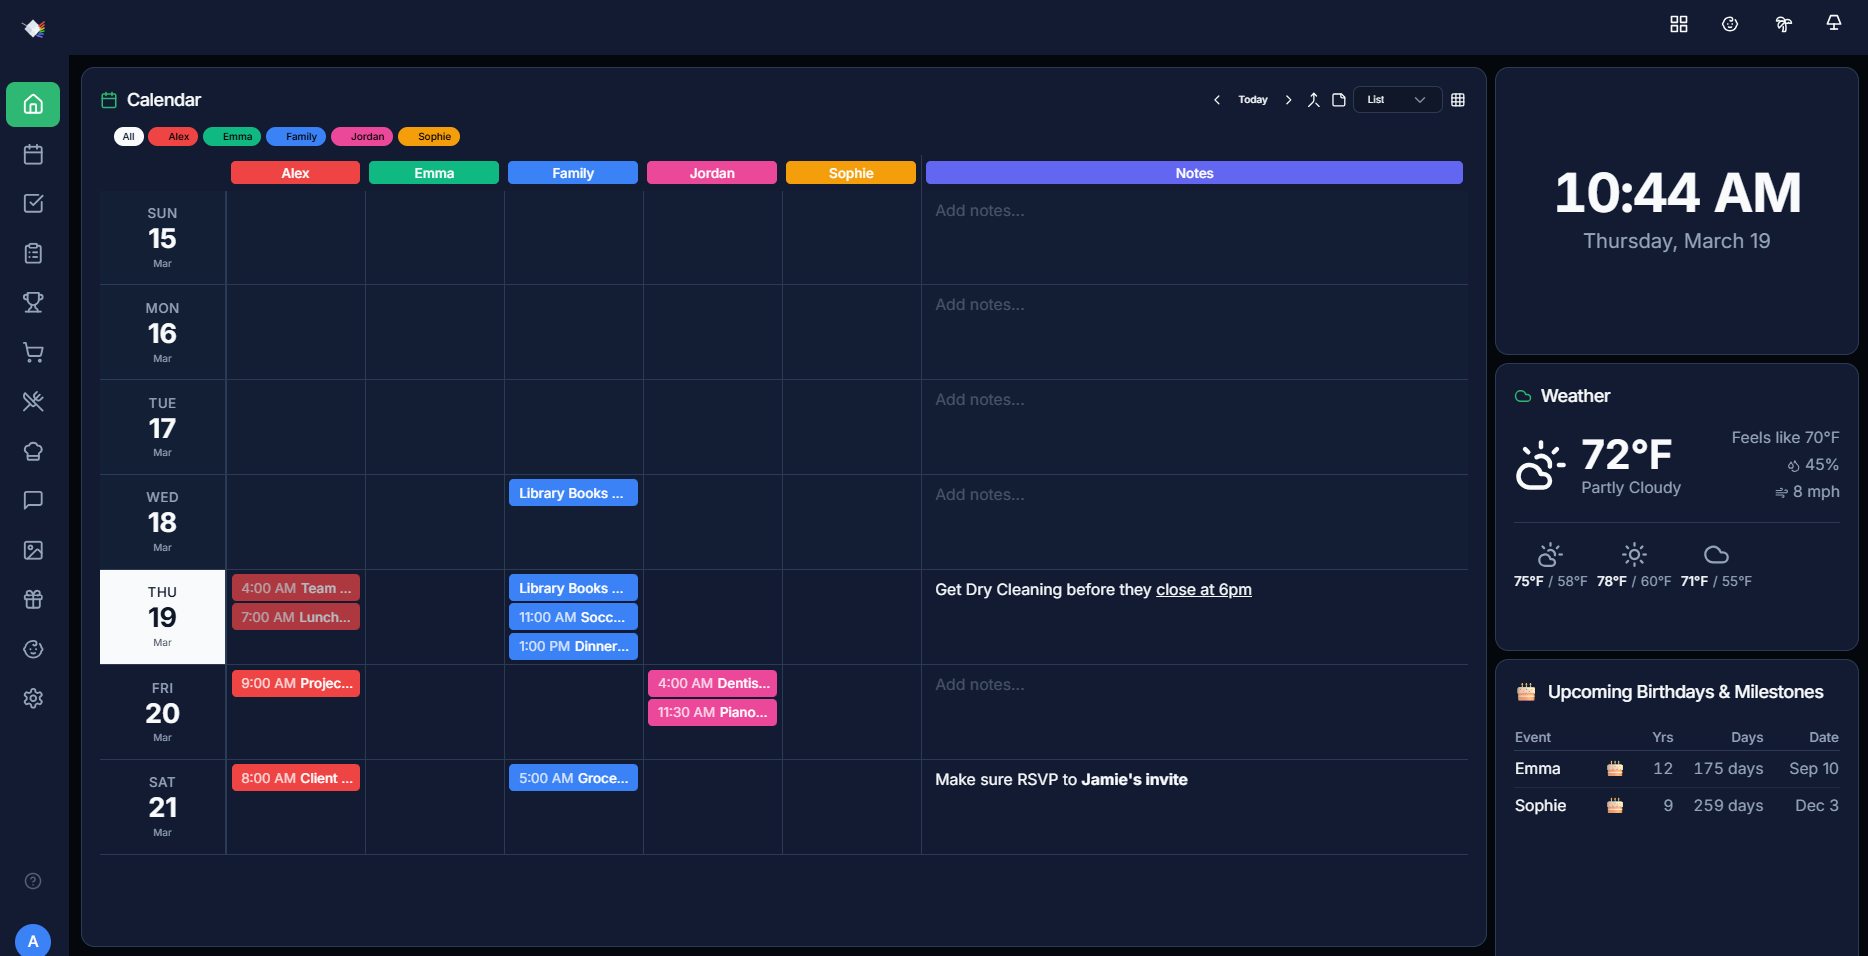
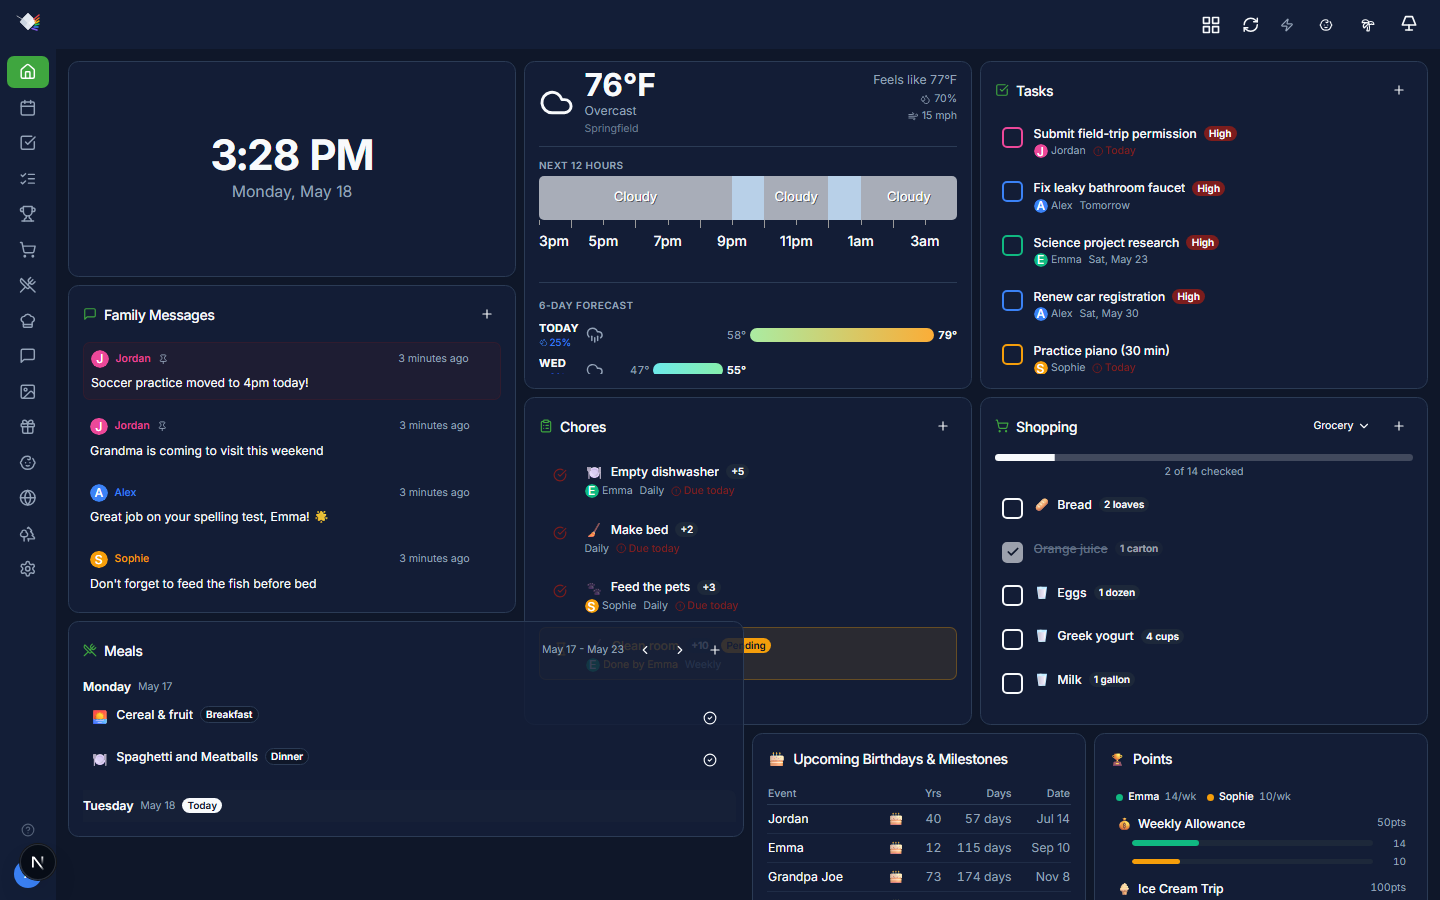
docs(demos): regenerate all 19 screenshots from the rich seed
First fresh batch using the new Playwright capture script
(scripts/capture-screenshots.ts) + the rich seed + the calendar-removed
dashboard layout. Result: every page renders fully populated content
instead of the old stale placeholder screenshots that predated v1.4.

Dashboard screenshots in particular: nine widgets all populated (clock,
weather, tasks, family messages, chores, shopping, meals, birthdays,
points) with zero spinners or "Loading..." text. Took bumping the
settle delay to 15s + dropping the calendar widget from the seed layout
to get there reliably.

Other notable shots:
- Tasks: grouped by person, color-coded cards, priority badges.
- Shopping: full grocery list with units + Send to Kroger button visible.
- Meals: this week + next week populated with seeded meals.
- Photos: "No photos yet" empty state (seed doesn't insert photos —
  faithful representation of what a fresh user sees).
- Mobile dashboard: shows empty placeholder cards (mobile summary cards
  appear to fetch from a different endpoint than the desktop dashboard
  — worth investigating separately, but the screenshot is at least
  faithful to the current behavior).

Also adds scripts/capture-one.ts for single-page retry (useful when a
specific page's full run hiccups, like tasks did on this batch — got
captured blank then re-captured cleanly).

diff --git a/scripts/capture-one.ts b/scripts/capture-one.ts
@@ -1,0 +1,62 @@
+/**
+ * Retry capture for a single page. Usage:
+ *   npx tsx scripts/capture-one.ts <url-path> <output-name> [settle-ms]
+ * Example:
+ *   npx tsx scripts/capture-one.ts /tasks tasks 4000
+ */
+
+import { chromium } from '@playwright/test';
+import * as path from 'path';
+
+const BASE_URL = process.env.PRISM_URL || 'http://localhost:3010';
+const [, , urlPath, outputName, settleArg] = process.argv;
+
+if (!urlPath || !outputName) {
+  console.error('Usage: tsx scripts/capture-one.ts <url-path> <output-name> [settle-ms]');
+  process.exit(1);
+}
+
+const settleMs = settleArg ? Number(settleArg) : 5000;
+const OUT_DIR = path.resolve(__dirname, '..', 'docs', 'demos');
+
+async function loginAsAlex(page: any) {
+  const resp = await page.request.get('/api/family');
+  const json = await resp.json();
+  const members = Array.isArray(json) ? json : json.members;
+  const alex = members.find((m: any) => m.name === 'Alex');
+  const data: any = { pin: '1234' };
+  if (alex.id) data.userId = alex.id;
+  else if (typeof alex.loginIndex === 'number') data.memberIndex = alex.loginIndex;
+  await page.request.post('/api/auth/login', { data });
+}
+
+(async () => {
+  const browser = await chromium.launch();
+  const context = await browser.newContext({
+    baseURL: BASE_URL,
+    viewport: { width: 1440, height: 900 },
+    reducedMotion: 'reduce',
+  });
+  const page = await context.newPage();
+  await page.goto('/', { waitUntil: 'load', timeout: 60_000 });
+  await loginAsAlex(page);
+  await page.goto(urlPath, { waitUntil: 'load', timeout: 60_000 });
+
+  // Wait for body content + no loading text
+  await page.waitForFunction(
+    () => {
+      const text = document.body.innerText.trim();
+      if (!text || text === 'Prism') return false;
+      if (/Loading[\s\w]*\.\.\./i.test(text)) return false;
+      return true;
+    },
+    { timeout: 30_000, polling: 250 },
+  ).catch(() => {});
+
+  await page.waitForTimeout(settleMs);
+
+  await page.screenshot({ path: path.join(OUT_DIR, `${outputName}.png`), fullPage: false });
+  console.log(`  ✓ ${outputName}.png`);
+
+  await browser.close();
+})();
